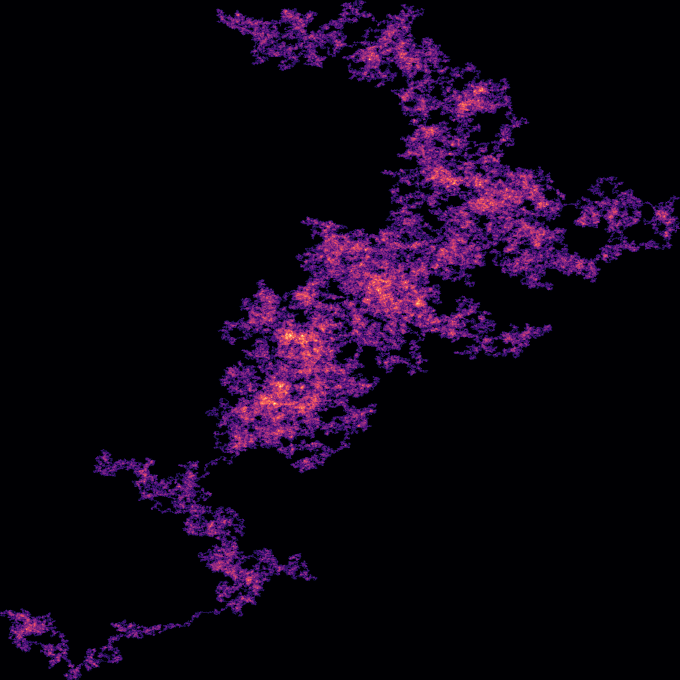
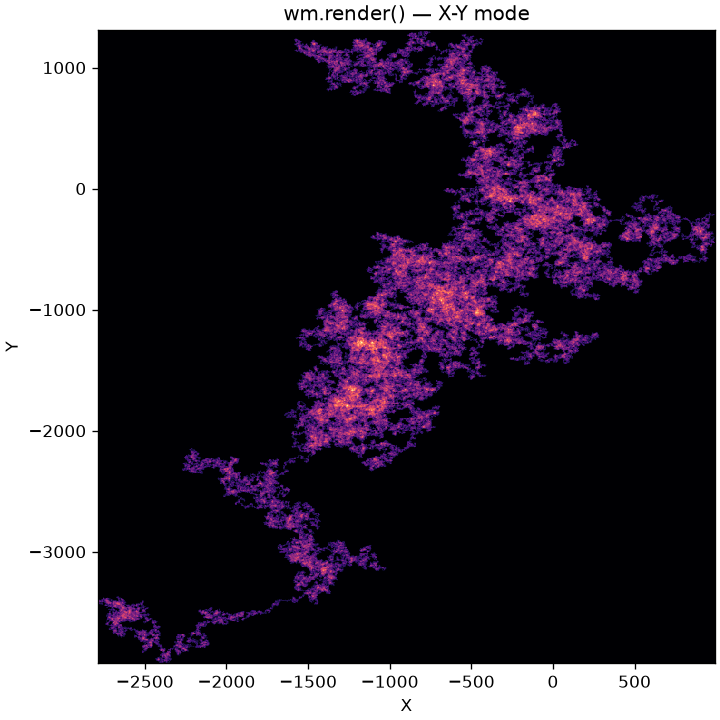
render: add plot_dpo for data-unit axes + plt.plot comparison in docs
- Add wm.plot_dpo(waveform, ax=...): draws a digital-phosphor render onto a
  matplotlib Axes with data-unit axes (the same time/amplitude axes plt.plot
  produces), forwarding dpo_histogram kwargs (x, width, ranges, ...).
- docs: new side-by-side "wm.render vs plt.plot" figure on the same AM signal
  with identical axes, and X-Y axes on the 2-D random-walk example. Replace the
  bare-raster AM image with the comparison.
- Tests for plot_dpo axes/labels in both time and X-Y modes.

diff --git a/src/wave_measure/plotting.py b/src/wave_measure/plotting.py
@@ -11,7 +11,7 @@ from typing import Any, Optional
 from .analysis import spectrum
 from .waveform import Waveform
 
-__all__ = ["plot", "plot_spectrum"]
+__all__ = ["plot", "plot_spectrum", "plot_dpo"]
 
 
 def _require_matplotlib():
@@ -65,4 +65,43 @@ def plot_spectrum(
     ax.set_xlabel("Frequency (Hz)")
     ax.set_ylabel("Magnitude")
     ax.grid(True, alpha=0.3)
+    return ax
+
+
+def plot_dpo(
+    waveform: Waveform,
+    *,
+    ax: Optional[Any] = None,
+    cmap: str = "inferno",
+    scale: str = "sqrt",
+    xlabel: Optional[str] = None,
+    ylabel: str = "Amplitude",
+    **kwargs: Any,
+):
+    """Draw a digital-phosphor render of ``waveform`` on a matplotlib ``Axes``.
+
+    Unlike :func:`~wave_measure.render`, which returns a bare image array, this
+    displays the render with **data-unit axes** — the same time/amplitude axes
+    :func:`plot` (and ``plt.plot``) would produce — by mapping the accumulation
+    histogram through ``imshow`` with the correct extent. Returns the ``Axes``.
+
+    Extra keyword arguments (``x``, ``width``, ``height``, ``x_range``,
+    ``y_range``, ``backend``, ``block``, ``workers``) are forwarded to
+    :func:`~wave_measure.dpo_histogram`.
+    """
+    from .dpo import _intensity, dpo_histogram
+
+    plt = _require_matplotlib()
+    if ax is None:
+        _, ax = plt.subplots()
+    hist, extent = dpo_histogram(waveform, **kwargs)
+    intensity = _intensity(hist, scale)
+    ax.imshow(
+        intensity, origin="lower", extent=extent, aspect="auto", cmap=cmap,
+        interpolation="nearest",
+    )
+    if xlabel is None:
+        xlabel = "X" if kwargs.get("x") is not None else "Time (s)"
+    ax.set_xlabel(xlabel)
+    ax.set_ylabel(ylabel)
     return ax

diff --git a/tests/test_dpo.py b/tests/test_dpo.py
@@ -1,7 +1,10 @@
 """Tests for the digital-phosphor renderer."""
 
+import matplotlib
 import numpy as np
 import pytest
+
+matplotlib.use("Agg")  # headless plotting for plot_dpo tests
 
 import wave_measure as wm
 
@@ -111,6 +114,31 @@ def test_cuda_backend_falls_back_when_unavailable(signal):
     with pytest.warns(RuntimeWarning):
         hist, _ = wm.dpo_histogram(signal, width=64, height=64, backend="cuda")
     assert hist.sum() > 0
+
+
+def test_plot_dpo_has_time_amplitude_axes(signal):
+    import matplotlib.pyplot as plt
+
+    ax = wm.plot_dpo(signal, width=100, height=80, cmap="inferno")
+    assert ax.images, "an imshow image should be drawn"
+    assert ax.get_xlabel() == "Time (s)"
+    assert ax.get_ylabel() == "Amplitude"
+    # The image extent spans the data range (time base starts at 0).
+    x0, x1, y0, y1 = ax.images[0].get_extent()
+    assert x0 == pytest.approx(0.0)
+    assert x1 > x0 and y1 > y0
+    plt.close("all")
+
+
+def test_plot_dpo_xy_mode_labels():
+    import matplotlib.pyplot as plt
+
+    n = 2000
+    y = wm.from_array(np.linspace(0, 1, n), sample_rate=1.0)
+    ax = wm.plot_dpo(y, x=np.linspace(-1, 1, n), width=64, height=64, ylabel="Y")
+    assert ax.get_xlabel() == "X"
+    assert ax.get_ylabel() == "Y"
+    plt.close("all")
 
 
 def test_too_short_raises():

diff --git a/src/wave_measure/__init__.py b/src/wave_measure/__init__.py
@@ -30,7 +30,7 @@ from .measure import (
     vpp,
     vrms,
 )
-from .plotting import plot, plot_spectrum
+from .plotting import plot, plot_dpo, plot_spectrum
 from .waveform import Waveform
 
 __version__ = "0.1.0"
@@ -90,4 +90,5 @@ __all__ = [
     "dpo_histogram",
     "plot",
     "plot_spectrum",
+    "plot_dpo",
 ]

diff --git a/docs/guide/rendering.md b/docs/guide/rendering.md
@@ -27,33 +27,54 @@ wm.render(wave, width=1000, height=500, cmap="inferno", path="scope.png")
 `render` always draws the **whole** waveform you give it — to render a slice,
 pass one: `wm.render(wave.get_from_to(a, b))`.
 
+## Plotting with axes
+
+`render` returns a bare image. To display it with **data-unit axes** — the same
+time/amplitude axes `plt.plot` produces — use {py:func}`~wave_measure.plot_dpo`,
+which draws the render onto a matplotlib `Axes` and returns it:
+
+```python
+import matplotlib.pyplot as plt
+
+ax = wm.plot_dpo(wave, cmap="inferno")   # x = time, y = amplitude
+plt.show()
+```
+
 ## Examples
 
 These reproduce the demonstrations from Lithcore's
 [Python multi-core / GPU digital phosphor][blog] article, whose CUDA
 implementation this renderer is based on.
 
-### AM signal
+### `wm.render` vs `plt.plot`
 
-A carrier modulated by a slow sine. The carrier fills the modulation envelope,
-and phosphor accumulation glows brightest at the envelope nodes where the trace
-density peaks.
+The same 2-million-sample AM signal, drawn both ways with **identical axes**.
+`plt.plot` overdraws into a solid smear that hides all internal structure;
+`wm.render` grades every pixel by trace density, so the modulation envelope and
+its bright nodes emerge.
 
 ```python
 import numpy as np
+import matplotlib.pyplot as plt
 import wave_measure as wm
 
-fs, n = 1e6, 8_000_000
+fs, n = 1e6, 2_000_000
 t = np.arange(n) / fs
-carrier, modulation = 1000.0, 1.0
-y = np.sin(2 * np.pi * carrier * t) * (0.5 + 0.5 * np.sin(2 * np.pi * modulation * t))
+y = np.sin(2 * np.pi * 1000 * t) * (0.5 + 0.5 * np.sin(2 * np.pi * 2.0 * t))
+wave = wm.from_array(y.astype(np.float32), sample_rate=fs)
 
-am = wm.from_array(y.astype(np.float32), sample_rate=fs)
-wm.render(am, width=1100, height=440, cmap="inferno", path="am.png")
+fig, (left, right) = plt.subplots(1, 2, figsize=(12, 4.2), constrained_layout=True)
+left.plot(t, y, lw=0.4)
+left.set(title="plt.plot()", xlabel="Time (s)", ylabel="Amplitude")
+
+wm.plot_dpo(wave, ax=right, cmap="inferno")
+right.set_title("wm.render()")
+right.set_xlim(left.get_xlim())        # match plt.plot's axes exactly
+right.set_ylim(left.get_ylim())
 ```
 
-```{image} ../_static/dpo_am_signal.png
-:alt: Digital-phosphor render of an amplitude-modulated signal
+```{image} ../_static/dpo_vs_plot.png
+:alt: plt.plot and wm.render of an AM signal, side by side with identical axes
 :width: 100%
 ```
 
@@ -70,11 +91,11 @@ x = np.cumsum(rng.standard_normal(8_000_000)).astype(np.float32)
 y = np.cumsum(rng.standard_normal(8_000_000)).astype(np.float32)
 
 walk = wm.from_array(y)
-wm.render(walk, x=x, width=680, height=680, cmap="magma", path="walk.png")
+ax = wm.plot_dpo(walk, x=x, width=680, height=680, cmap="magma", ylabel="Y")
 ```
 
 ```{image} ../_static/dpo_random_walk.png
-:alt: Digital-phosphor render of a 2-D random walk
+:alt: Digital-phosphor render of a 2-D random walk with X-Y axes
 :width: 70%
 :align: center
 ```
@@ -101,8 +122,9 @@ upward): an `(height, width)` float array in `[0, 1]` without `cmap`, or an
 
 ## Data-unit axes
 
-`render` returns a raster with no axes. For labeled axes, use the lower-level
-{py:func}`~wave_measure.dpo_histogram`, which returns the raw counts and extent:
+{py:func}`~wave_measure.plot_dpo` (above) is the easy way to get labeled axes.
+Under the hood it uses {py:func}`~wave_measure.dpo_histogram`, which returns the
+raw counts and extent if you want full control:
 
 ```python
 hist, extent = wm.dpo_histogram(wave, width=1000, height=500)

diff --git a/README.md b/README.md
@@ -182,13 +182,14 @@ RGBA), `scale` (`"sqrt"`/`"log"`/`"linear"` intensity compression),
 backend defaults to the detected accelerator; an unusable CUDA request falls
 back to CPU with a warning.
 
-For axes in data units, use the lower-level `wm.dpo_histogram`, which returns the
-raw `(counts, extent)`:
+For data-unit axes (the same time/amplitude axes `plt.plot` produces), use
+`wm.plot_dpo`, which draws the render onto a matplotlib `Axes`:
 
 ```python
-hist, extent = wm.dpo_histogram(wave, width=1000, height=500)
-plt.imshow(hist ** 0.5, origin="lower", aspect="auto", extent=extent)
+ax = wm.plot_dpo(wave, cmap="inferno")   # x = time, y = amplitude
 ```
+
+Or drop to `wm.dpo_histogram`, which returns the raw `(counts, extent)`.
 
 ## Quick start
 